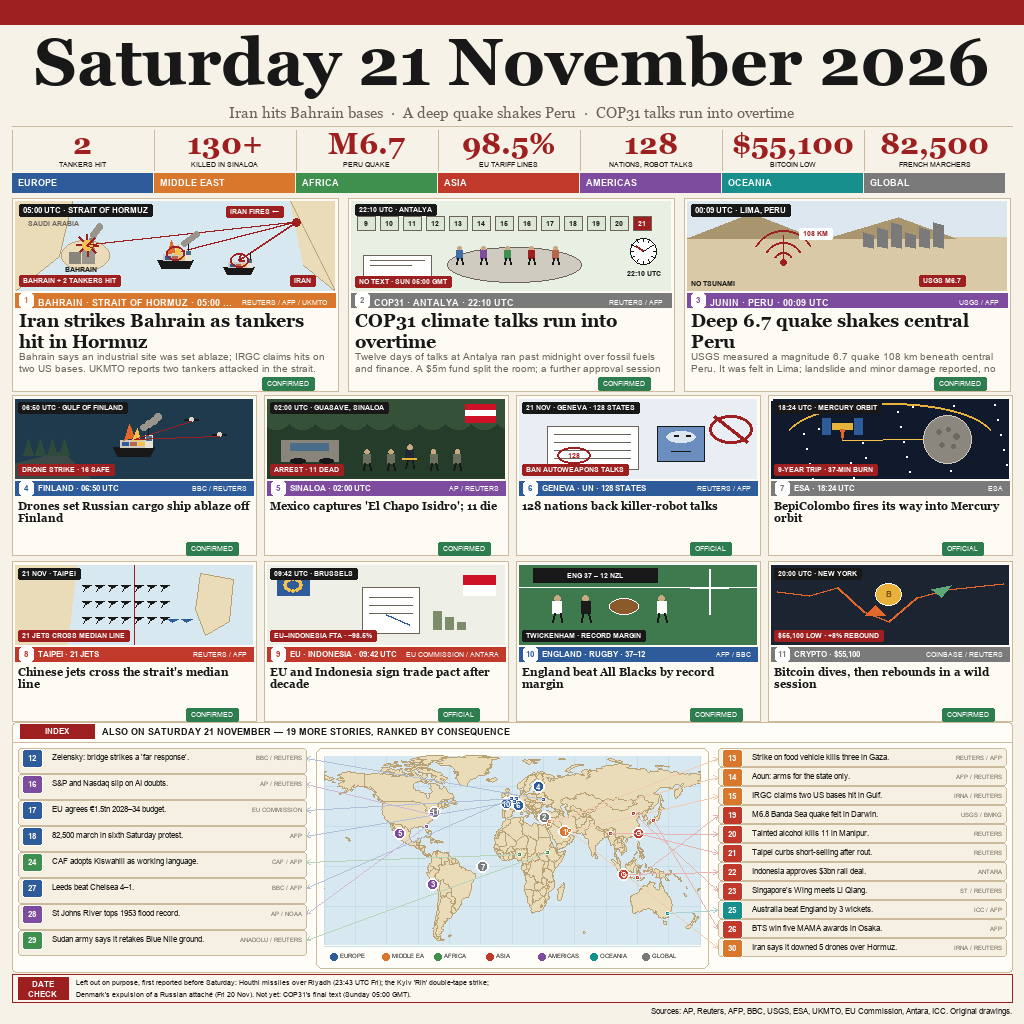
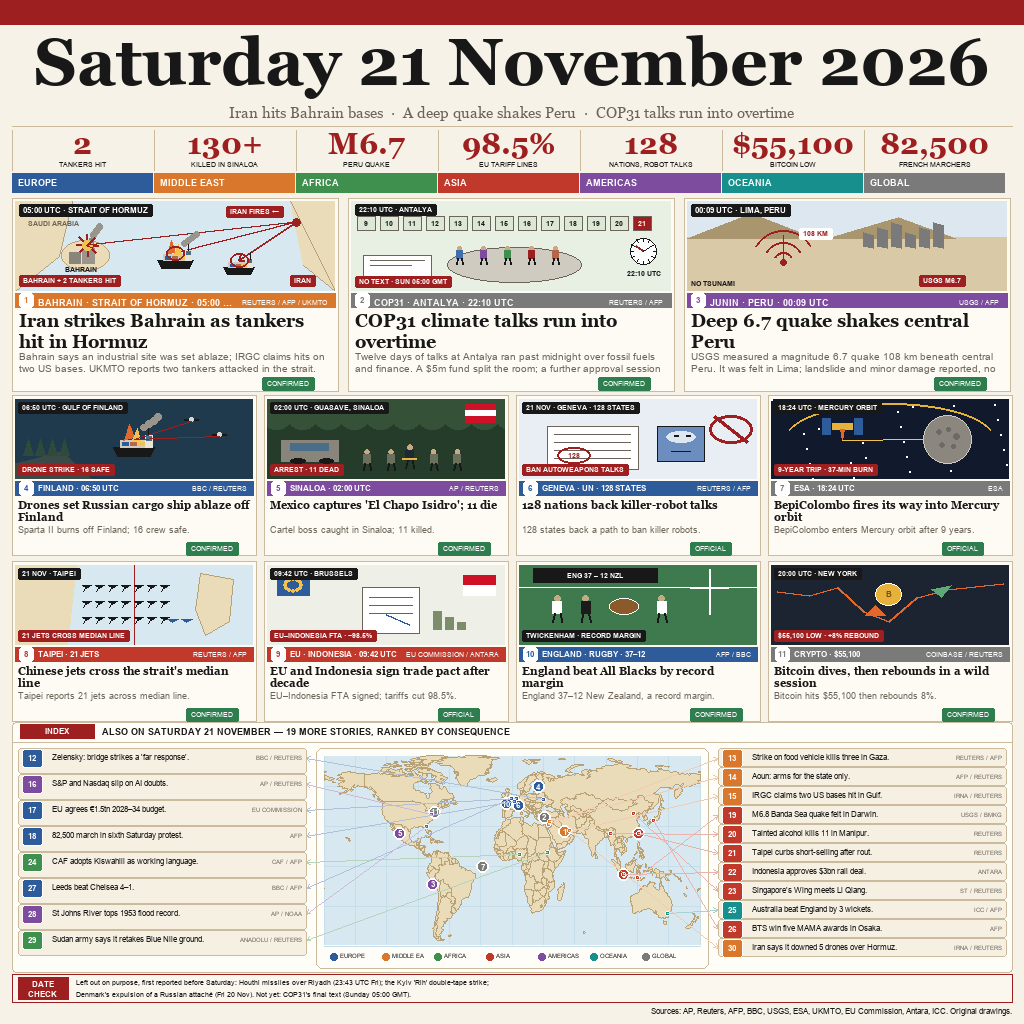
Fill small-card whitespace with 9px body text per no-empty-space rule

diff --git a/render.py b/render.py
@@ -62,6 +62,7 @@ F = {
     "sk": face("arialbd.ttf", 8),
     "ss": face("arial.ttf", 7),
     "sh": face("georgiab.ttf", 11),
+    "sb": face("arial.ttf", 9),
     "num": face("arialbd.ttf", 8),
     "lh": face("arial.ttf", 8),
     "ls": face("arial.ttf", 6),
@@ -552,7 +553,10 @@ def draw_small_cards(im, d):
         txt(d, (x + 235, y + 93), s["source"], F["ss"], "#FFFFFF", "rm")
         hl = wrap(d, s["headline"], F["sh"], 232)[:2]
         for j, ln in enumerate(hl):
-            txt(d, (x + 6, y + 104 + j * 12), fit(d, ln, F["sh"], 232), F["sh"], rgb(INK))
+            txt(d, (x + 6, y + 103 + j * 12), fit(d, ln, F["sh"], 232), F["sh"], rgb(INK))
+        bl = wrap(d, s["brief"], F["sb"], 232)[:2]
+        for j, ln in enumerate(bl):
+            txt(d, (x + 6, y + 129 + j * 9), fit(d, ln, F["sb"], 232), F["sb"], rgb(MUTED))
         chip(d, x + 174, y + 147, s["status"])
 
 

diff --git a/audit.py b/audit.py
@@ -67,7 +67,8 @@ def pass_300px():
     fonts = {
         "masthead": 66, "deck": 15, "stat number": 30, "region label": 9,
         "main headline": 18, "main body": 10, "small headline": 11,
-        "list headline": 8, "list source": 6, "date check": 7, "source line": 8,
+        "small body": 9, "list headline": 8, "list source": 6,
+        "date check": 7, "source line": 8,
     }
     return [(k, f"{v} px", f"{v * SCALE:.2f} px @300") for k, v in fonts.items()]
 
